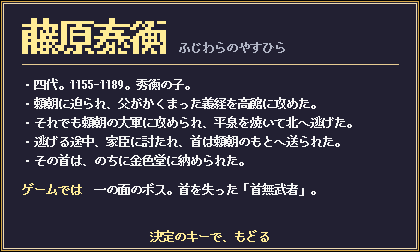
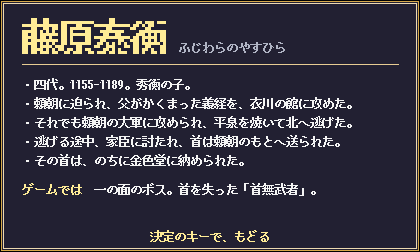
人物の説明を、裏の取れた形に直す（泰衡が義経を攻めたのは衣川の館・秀衡の遺言・基衡は京の仏師に本尊を頼んだ）

Changed region(s): [[0.5571, 0.3889, 0.8357, 0.4444]]

diff --git a/tools/make_meisho.py b/tools/make_meisho.py
@@ -43,7 +43,7 @@ PLACES = (
 PEOPLE = (
     ("藤原泰衡", "ふじわらのやすひら", (
         "四代。1155-1189。秀衡の子。",
-        "頼朝に迫られ、父がかくまった義経を高館に攻めた。",
+        "頼朝に迫られ、父がかくまった義経を、衣川の館に攻めた。",
         "それでも頼朝の大軍に攻められ、平泉を焼いて北へ逃げた。",
         "逃げる途中、家臣に討たれ、首は頼朝のもとへ送られた。",
         "その首は、のちに金色堂に納められた。",
@@ -53,12 +53,12 @@ PEOPLE = (
         "鎮守府将軍となり、奥州藤原氏の最盛期を築いた。",
         "毛越寺を仕上げ、宇治の平等院をまねた無量光院を建てた。",
         "頼朝に追われた源義経を、平泉にかくまった。",
-        "死の間際、義経を立てて国を守れと言い残した。",
+        "死の間際、義経をかくまい続けるよう言い残した。",
     ), "二の面のボス。薙刀の光波と、踏み込み突き。"),
     ("藤原基衡", "ふじわらのもとひら", (
         "二代。生年不明-1157。清衡の子。",
         "父の死後、兄弟と争って、跡を継いだ。",
-        "京から仏師や職人を招き、毛越寺を造りはじめた。",
+        "京の仏師に本尊を頼み、毛越寺を造りはじめた。",
         "極楽浄土を写した庭は、今も毛越寺に残る。",
         "妻は、毛越寺のとなりに観自在王院を建てた。",
     ), "三の面のボス。扇で風を起こす。"),

diff --git a/tools/make_credits.py b/tools/make_credits.py
@@ -45,7 +45,7 @@ LINES = (
     ("見出し", "二代  藤原基衡"),
     ("", "生年不明 - 1157"),
     ("", "兄弟と争って跡を継ぎ、"),
-    ("", "京から仏師や職人を招いて"),
+    ("", "京の仏師に本尊を頼んで"),
     ("", "毛越寺を造り、"),
     ("", "浄土の庭を残した"),
     None,
